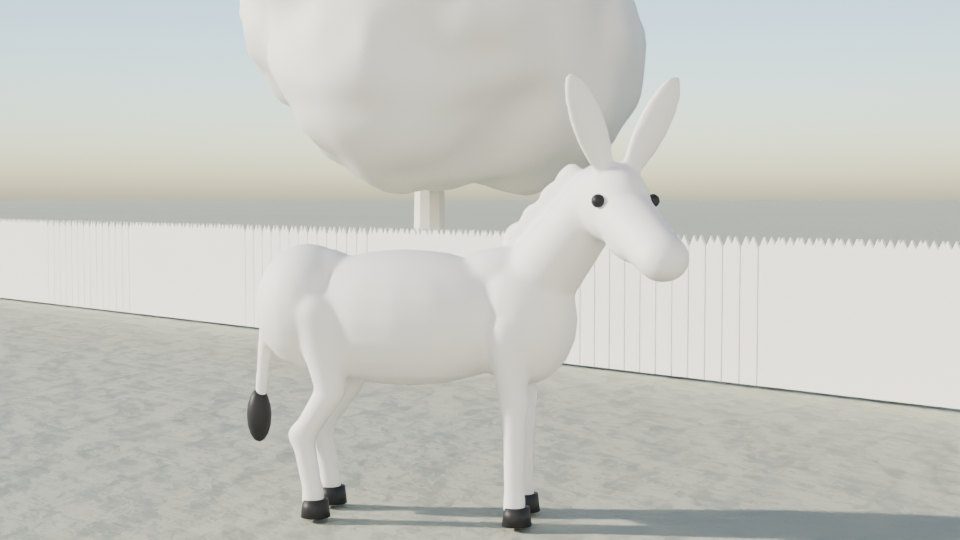
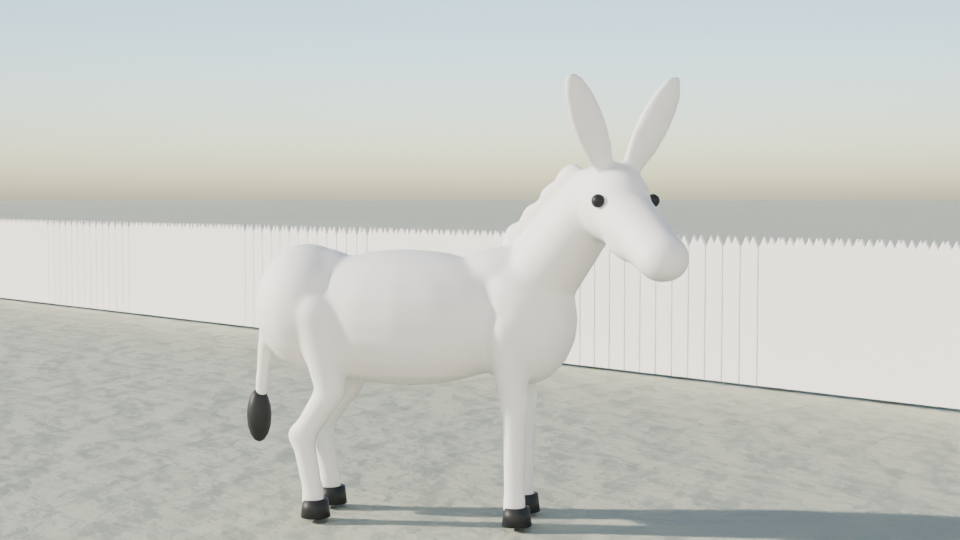
Gun rights episode: buyer outside the shop, clear sky behind the donkey
Claude-Session: https://claude.ai/code/session_01EgStzJ3TPUa8ByCo5bYLDX

Changed region(s): [[0.3438, 0.0, 0.6875, 0.3556], [0.4062, 0.3556, 0.4688, 0.4148], [0.25, 0.0, 0.2812, 0.0296]]

diff --git a/freemarket_defense/scripts/episode_scenes.py b/freemarket_defense/scripts/episode_scenes.py
@@ -171,9 +171,10 @@ def tv_shop():
     place("city", "tree_small", (8, -3.5, 0.15), 2.0)
     place("city", "street_lamp", (4, -4, 0.15), D)
     hd = math.radians(-110)
-    buyer = person("Buyer", 0.6, -2.0, hd, "walk")
+    bx, by = 1.6, -7.4  # just outside the shop front (the footprint reaches y = -4.9)
+    buyer = person("Buyer", bx, by, hd, "walk")
     if has("household", "tv_boxed"):  # carried in front of the chest, long side across the body
-        b = place("household", "tv_boxed", (0.6 + 0.4 * math.cos(hd), -2.0 + 0.4 * math.sin(hd), 0.62), hd)
+        b = place("household", "tv_boxed", (bx + 0.4 * math.cos(hd), by + 0.4 * math.sin(hd), 0.62), hd)
         b.rotation_euler = (math.radians(6), 0, hd)
     else:
         place("commerce", "cardboard_box", (1.2, -2.4, 0.5), math.radians(30))
@@ -237,9 +238,8 @@ def donkey():
     ground((0.5, 0.52, 0.42))
     for i in range(-4, 5):
         place("city", "fence_picket", (i * 4, 4, 0), 0) if has("city", "fence_picket") else None
-    place("city", "tree_wide", (-14, 13, 0), 0.5)
-    place("city", "tree_round", (11, 10, 0), 2.0)
-    place("buildings", "farm_barn_silo", (18, 14, 0), math.radians(-110))
+    place("city", "tree_round", (16, 9, 0), 2.0)
+    place("buildings", "farm_barn_silo", (24, 18, 0), math.radians(-110))
     if has("household", "donkey_grazing"):
         place("household", "donkey_grazing", (5, 6, 0), math.radians(150))
     if has("household", "donkey"):

diff --git a/freemarket_defense/scripts/episode.py b/freemarket_defense/scripts/episode.py
@@ -26,7 +26,7 @@ SHOTS = [
     dict(id="S02", scene="paper", paras=[2, 3],
          cam=((0.95, -0.55, 1.12), (0.95, -0.75, 1.0)), look=((0.15, 0.0, 0.76), (0.45, -0.2, 0.76)), lens=50),
     dict(id="S03", scene="tv_shop", paras=[4, 5, 6],
-         cam=((12, -12, 2.3), (7.5, -8.5, 1.8)), look=((0.8, -1.2, 1.3), (0.8, -2.0, 1.1)), lens=35),
+         cam=((11, -16, 2.3), (7.0, -12.5, 1.8)), look=((1.2, -6.0, 1.4), (1.5, -7.2, 1.1)), lens=35),
     dict(id="S04", scene="door", paras=[7, 8, 9],
          cam=((9, -16, 2.0), (6, -10.5, 1.6)), look=((4, 3.5, 1.6), (4, 2.5, 1.4)), lens=32),
     dict(id="S05", scene="table", paras=[10, 11, 12],
